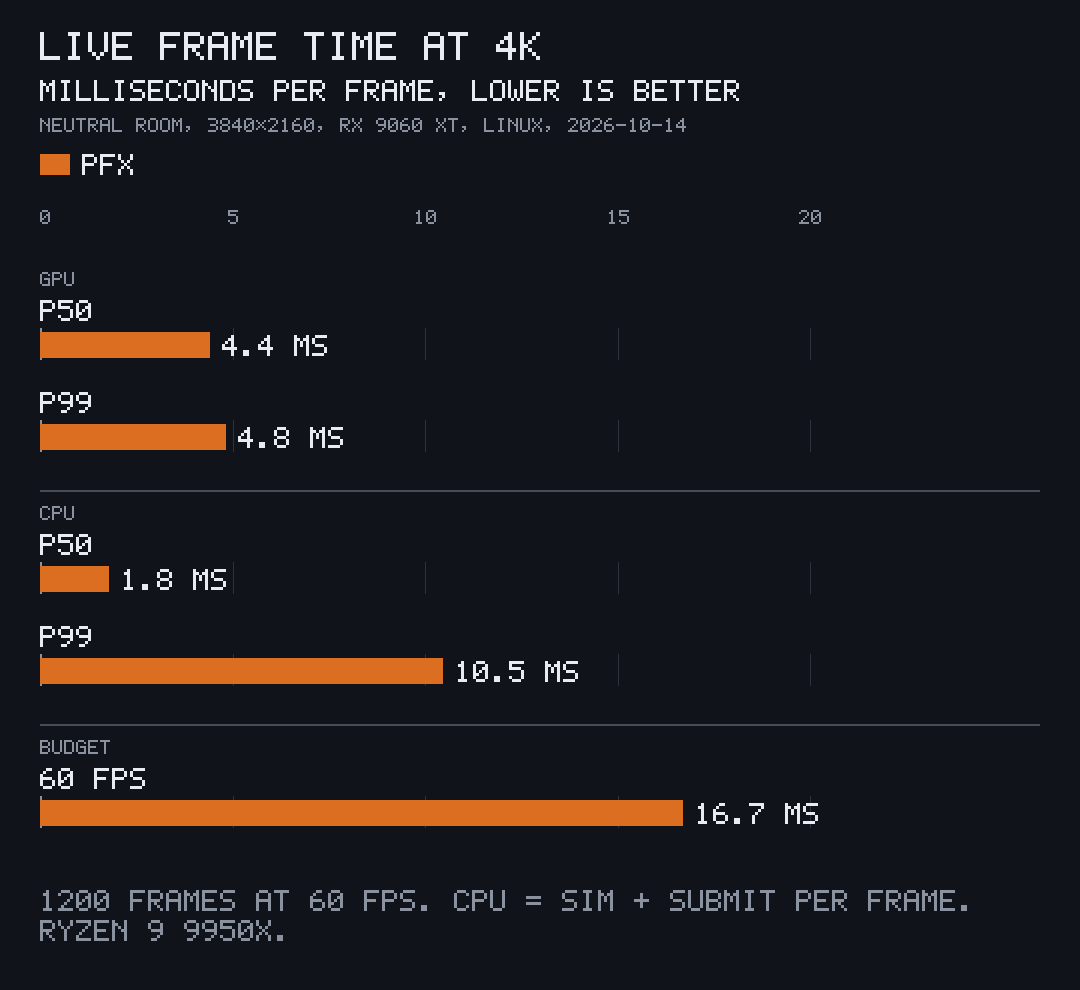
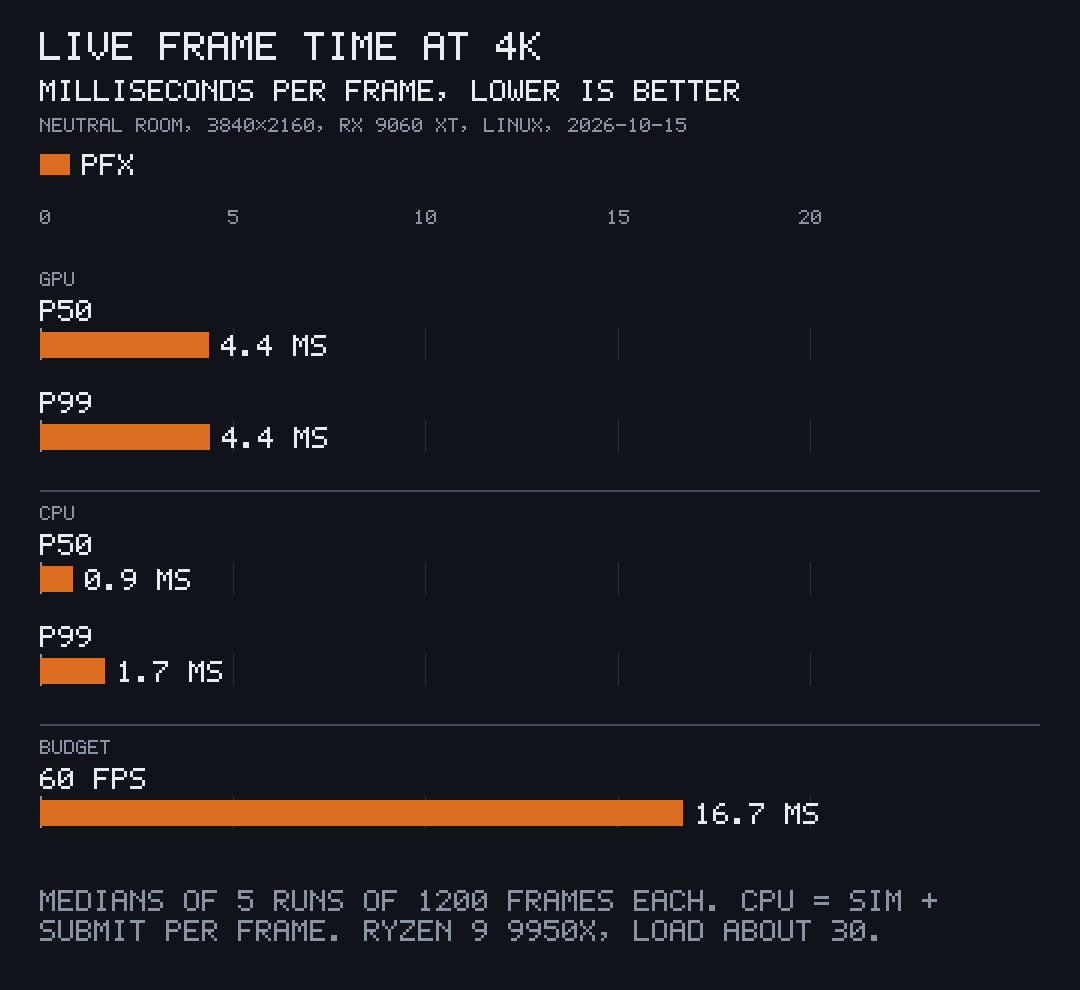
README: the live and 2D numbers from an A/B against the commit before

diff --git a/README.md b/README.md
@@ -8,8 +8,8 @@ pfx is a game and render engine in Rust, part of [PITO MD](https://pitomd.com): 
 
 | | Measured |
 |---|---|
-| Live renderer, 4K, neutral room | **4.4 ms** GPU a frame (p50), 4.8 ms p99, 0 dropped frames in 1,200 |
-| 2D pass, 4K, 2,000 shots + 20,301 particles | **0.39 ms** GPU a frame |
+| Live renderer, 4K, neutral room | **4.4 ms** GPU a frame (p50), 4.4 ms p99, 0 dropped frames in 1,200 |
+| 2D pass, 4K, 2,000 shots + 20,301 particles | **0.36 ms** GPU a frame |
 | Path tracer, desk scene, 4K final, denoised | **11.2 s**, down from 40.4 s in v0.26.0 |
 | Denoiser, 4K | **287 ms** on the GPU |
 | Empty game, stripped release binary | **34.7 MB** against Bevy's 106.6 MB |
@@ -66,11 +66,11 @@ pfx-game = { git = "https://github.com/gmrdad82/pfx", tag = "v1.0.0" }
 
 <p align="center"><img src="docs/images/live.gif" width="800" alt="The live renderer drawing the engine's neutral desk scene while the camera sways around it: a wooden desk with a lamp, a colour chart, a chrome ball, a red box and a white card, with shadows, reflections in the ball and steam rising."></p>
 
-The live renderer keeps 60 fps at 4K with shadows, baked light, TAA, text drawn from vector outlines, effects and dynamic resolution ([docs/live-renderer.md](docs/live-renderer.md)). On the neutral room at 3840x2160 a frame costs 4.4 ms of GPU time at the median and 4.8 ms at p99, about a quarter of the 16.7 ms a 60 fps frame allows, and the CPU's simulate-and-submit takes 1.8 ms at the median. It draws frames on demand: when only the camera drifts a desk frame costs 0.50 ms, and an idle scene costs nothing.
+The live renderer keeps 60 fps at 4K with shadows, baked light, TAA, text drawn from vector outlines, effects and dynamic resolution ([docs/live-renderer.md](docs/live-renderer.md)). On the neutral room at 3840x2160 a frame costs 4.4 ms of GPU time at the median and at p99, about a quarter of the 16.7 ms a 60 fps frame allows, and the CPU's simulate-and-submit takes 0.85 ms at the median and 1.7 ms at p99. It draws frames on demand: when only the camera drifts a desk frame costs 0.50 ms, and an idle scene costs nothing.
 
-<p align="center"><img src="docs/images/live-frames.png" width="540" alt="Bar chart, live frame time at 4K on the neutral room, lower is better: GPU p50 4.4 ms, p99 4.8 ms; CPU p50 1.8 ms, p99 10.5 ms; the 60 fps budget 16.7 ms."></p>
+<p align="center"><img src="docs/images/live-frames.png" width="540" alt="Bar chart, live frame time at 4K on the neutral room, lower is better: GPU p50 4.4 ms, p99 4.4 ms; CPU p50 0.9 ms, p99 1.7 ms; the 60 fps budget 16.7 ms."></p>
 
-The flat 2D pass draws sprites, text and particles for 2D games and overlays ([docs/flat.md](docs/flat.md)). At 4K, 2,000 shots and 20,301 particles cost 0.39 ms of GPU time a frame.
+The flat 2D pass draws sprites, text and particles for 2D games and overlays ([docs/flat.md](docs/flat.md)). At 4K, 2,000 shots and 20,301 particles cost 0.36 ms of GPU time a frame.
 
 <p align="center"><img src="docs/images/swarm.png" width="800" alt="The flat 2D pass on a dark background: two long diagonal streams of orange, red and pale blue particles, about twenty thousand in all."></p>
 
@@ -118,17 +118,17 @@ That pfx game carries the editor; built without it (`--no-default-features`, wha
 
 ## The numbers
 
-Measured once on 2026-10-14 at commit 637c352 (v0.32.0), on an AMD Radeon RX 9060 XT with an AMD Ryzen 9 9950X (32 threads) under Linux, each GPU run through the machine's GPU queue, which other jobs shared:
+Measured on an AMD Radeon RX 9060 XT with an AMD Ryzen 9 9950X (32 threads) under Linux, each GPU run through the machine's GPU queue, which other jobs shared. The live and 2D numbers were measured on 2026-10-15 as an A/B against the commit before them (9e7514a): both release builds alternated run by run, five runs each, at a load average of 13 to 35, and each number is the median of the five; the rest were measured once on 2026-10-14 at commit 637c352 (v0.32.0):
 
-- **Live, 4K:** `pfx bench <room>.scene.toml --seconds 20 --size 3840x2160` on the neutral bench room (`crates/load/tests/scenes`, with a falling ball and a turning pillar), 1,200 frames. The CPU p99 (10.5 ms) is skewed: the queue held the job for part of the run.
+- **Live, 4K:** `pfx bench crates/load/tests/scenes/room.scene.toml --seconds 20 --size 3840x2160`, the neutral room, 1,200 frames a run. The same frame before: GPU 4.39 ms p50 and 4.41 ms p99, CPU 0.86 ms p50 and 1.84 ms p99; the room is GPU-bound with few instances, so the CPU savings in the frame's uploads and bind groups barely show here.
 - **Frames on demand:** `crates/live/examples/frames.rs`, the desk at 4K: every frame 4.9 ms GPU at the median, a drifting camera 0.50 ms, idle 0.
-- **2D pass:** the swarm test in `crates/live/tests/flat/`, 2,000 shots and 20,301 particles at 4K, GPU p50 0.39 ms, p99 0.61 ms.
+- **2D pass:** the swarm test `a_swarm_of_shots_and_particles_fits_a_120_hz_frame_on_the_gpu_at_4k` in `crates/live/src/flat/effects/`, 2,000 shots and 20,301 particles at 4K: GPU p50 0.36 ms and p99 0.37 ms (0.42 and 0.43 before, the pick pass now drawn only when a pick waits), the `render_flat` call 3.10 ms on the CPU (3.41 before), of which `prepare` 2.46 ms.
 - **Path tracer:** `crates/denoise/examples/rt_bench.rs time desk final|draft 3840 2160`, the desk scene in `crates/bake/tests/plates/`, adaptive 16-64 samples a pixel for a final and 6-12 for a draft, denoise included. The final's 11.2 s is the queue's run time: the bench's own clock also counted 2 min 4 s it waited for the GPU. v0.26.0 and v0.27.0 were measured with the same bench at their tags, with the PCG sampler at 32-128 and 8-16 samples, which Sobol matches in noise since v0.28.0.
 - **Denoiser:** `crates/denoise/examples/compare.rs bench 3840 2160`, median texture to texture (623 ms with upload and readback, 673 ms on a first call that builds the pipelines).
 - **Game systems:** the bench tests in pfx-core and pfx-sound (`cargo test --release -p pfx-core --features serde --lib -- --ignored bench_`, `cargo test --release -p pfx-sound --test bench -- --ignored`), one thread. A sound tick is 800 frames at 48 kHz, with cubic resampling, the default for short sounds.
 - **Size:** pfx v0.32.0's scaffold and Bevy 0.20.0 with `DefaultPlugins`, cargo's default release profile, 4 build jobs, one cold build each in turn; binaries measured after `strip`; dependency crates counted with `cargo tree -e normal`, the game itself excluded. Lines of Rust counted with `wc -l` over `crates/*/src` and `src`.
 
-Nothing here was run twice for a better number. Hardware ray queries on Windows are built but untested on NVIDIA, Intel and AMD Windows machines.
+The live A/B ran twice, because its first CPU p99 (1.65 ms before, 1.83 ms after) was within the noise; the numbers above are the second run's. Nothing else here was run twice. Hardware ray queries on Windows are built but untested on NVIDIA, Intel and AMD Windows machines.
 
 ## The crates
 
